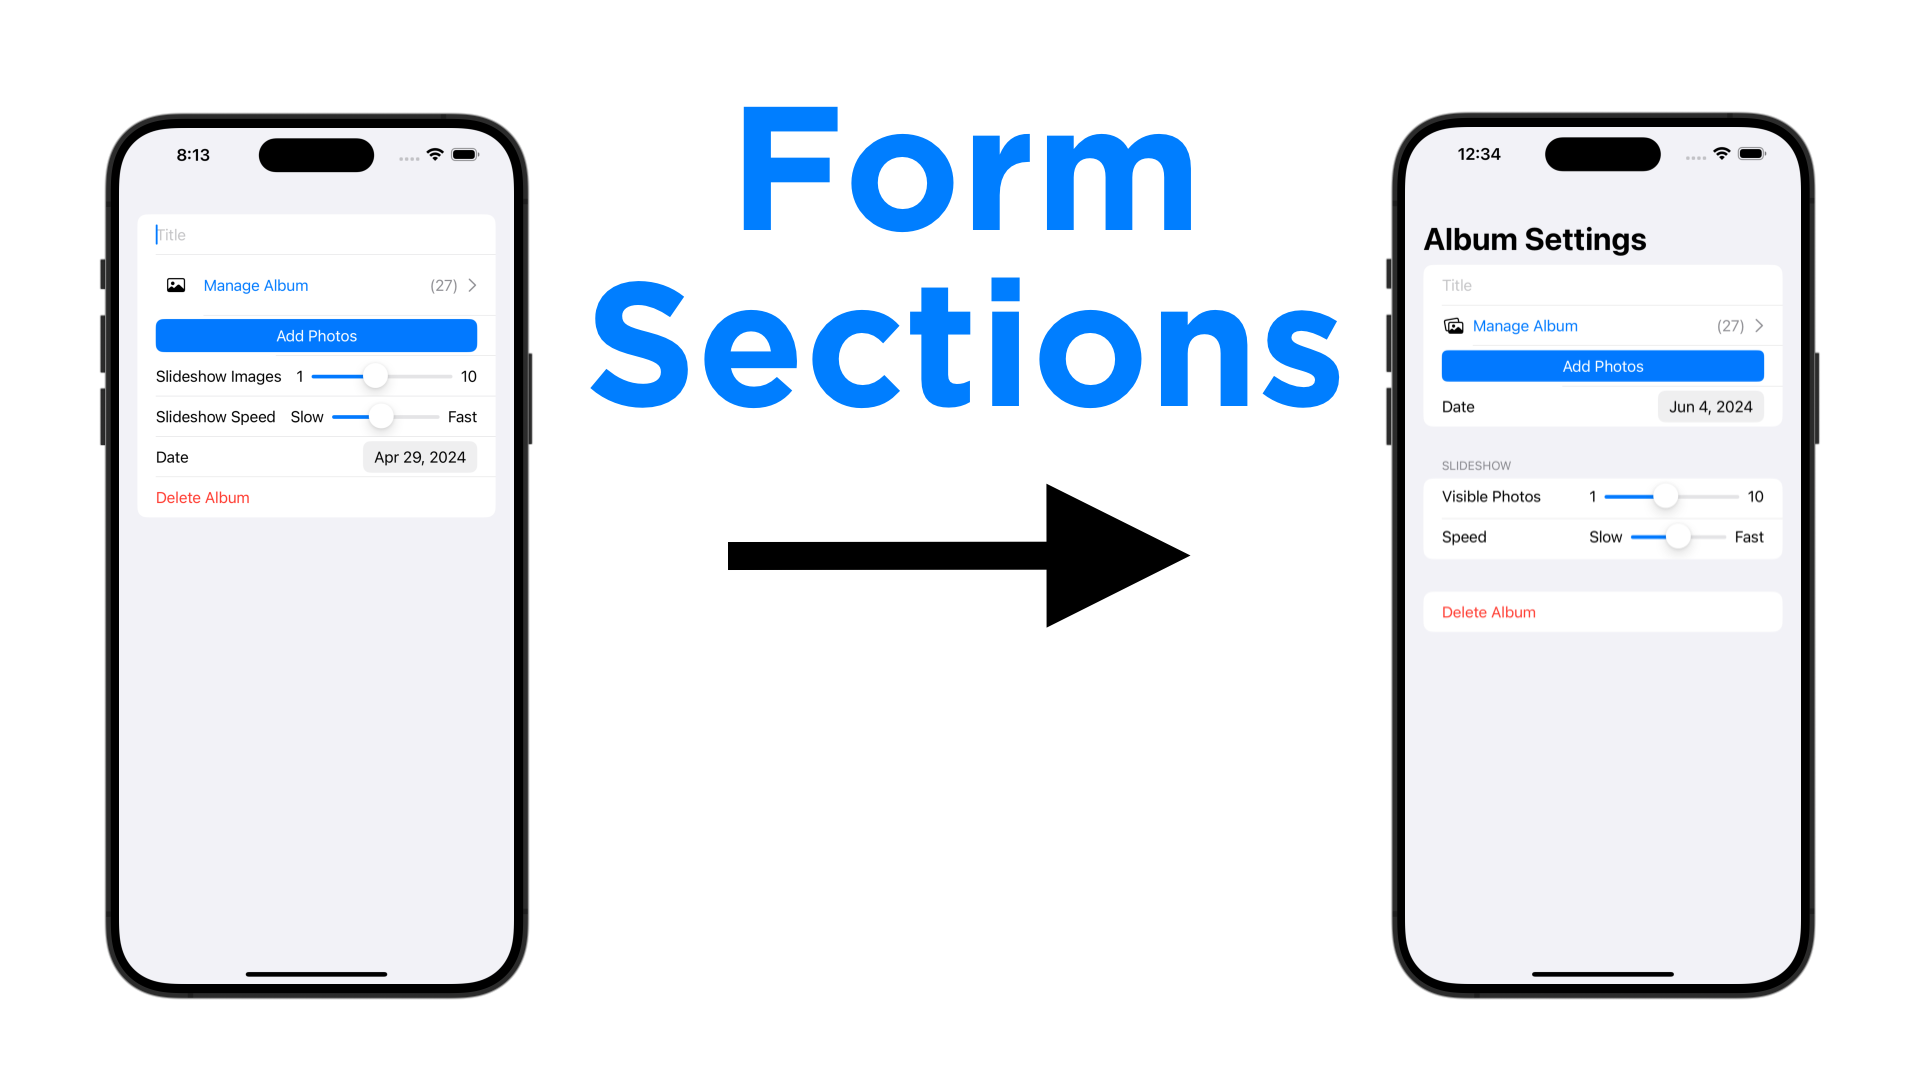
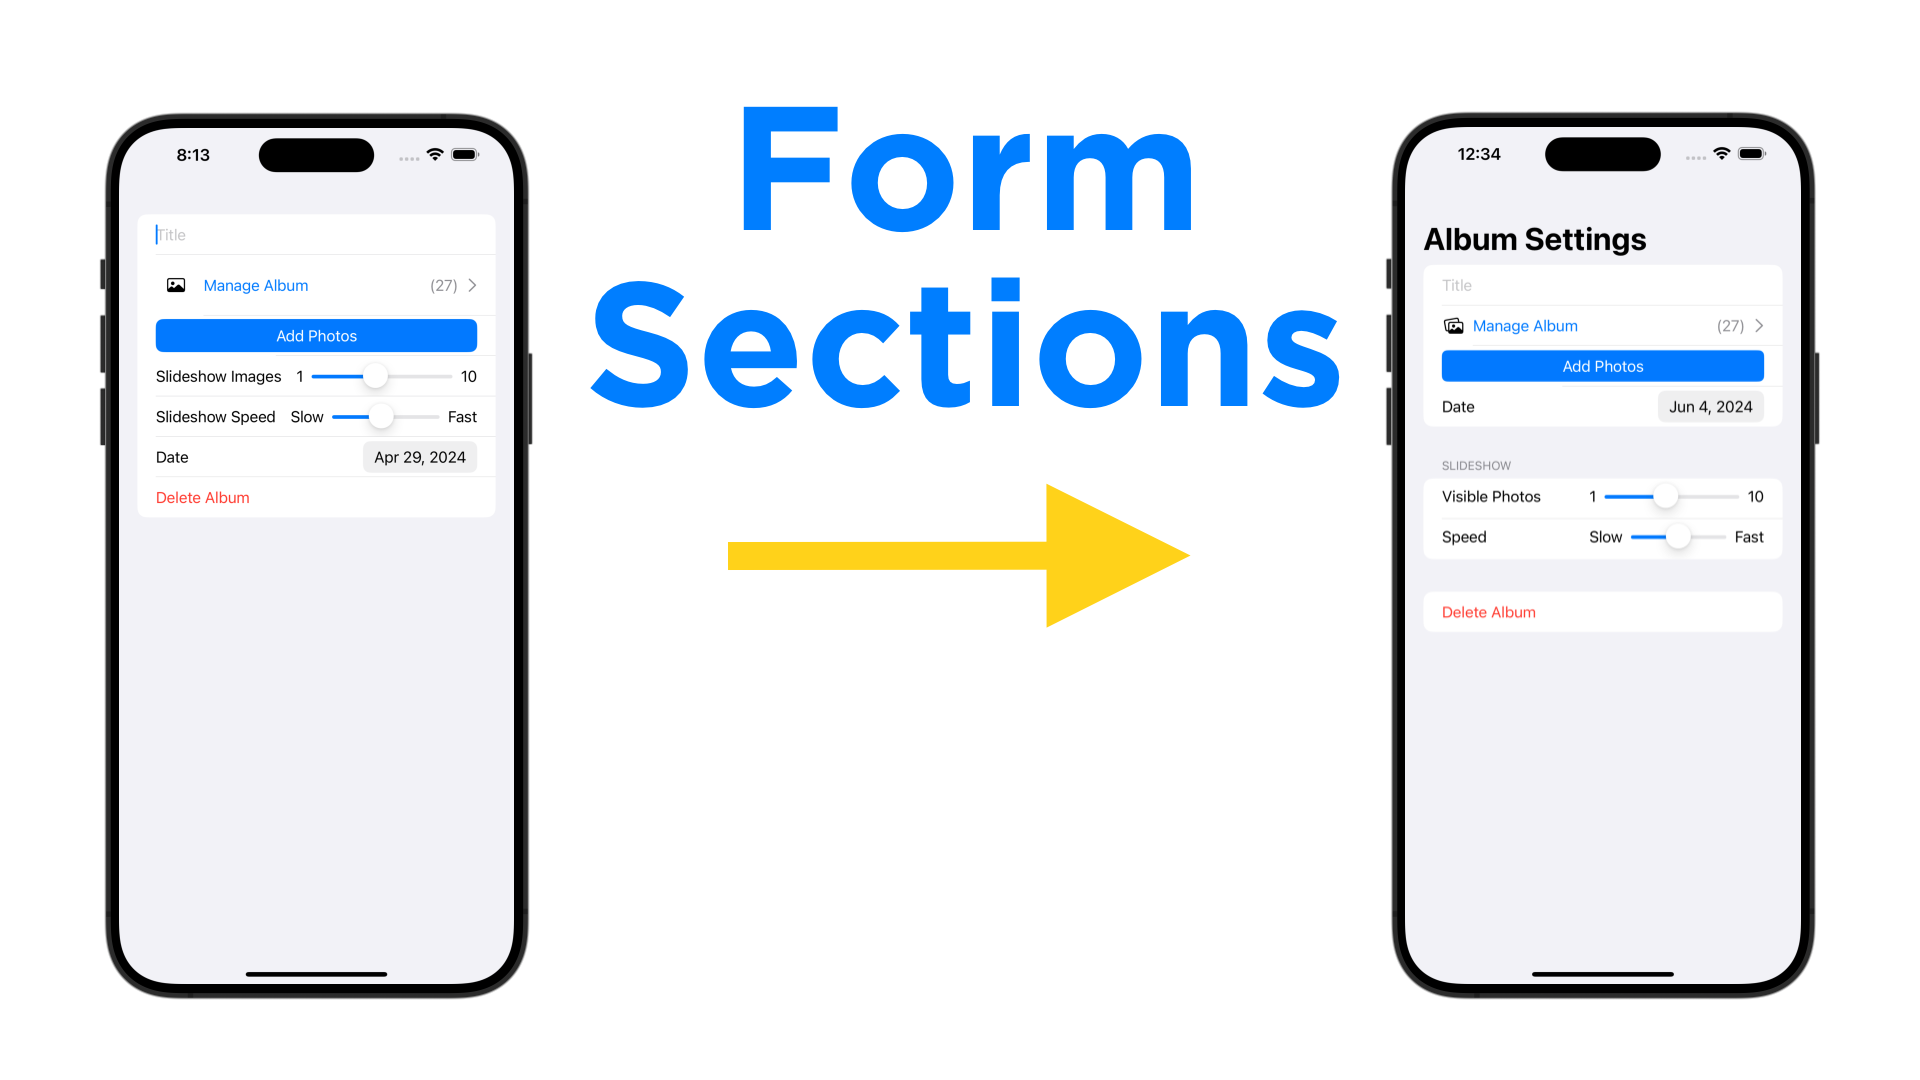
Updated hero

Changed region(s): [[0.375, 0.4583, 0.625, 0.5806]]

diff --git a/README.md b/README.md
@@ -1,6 +1,4 @@
 # SwiftUI-Tutorials
-SwiftUI Tutorials
-
 
 1. [SwiftUI Forms from UIKit](1_Form_UI/README.md)
 2. [SwiftUI Forms - Sections](2_Form_UI_Sections/README.md)
